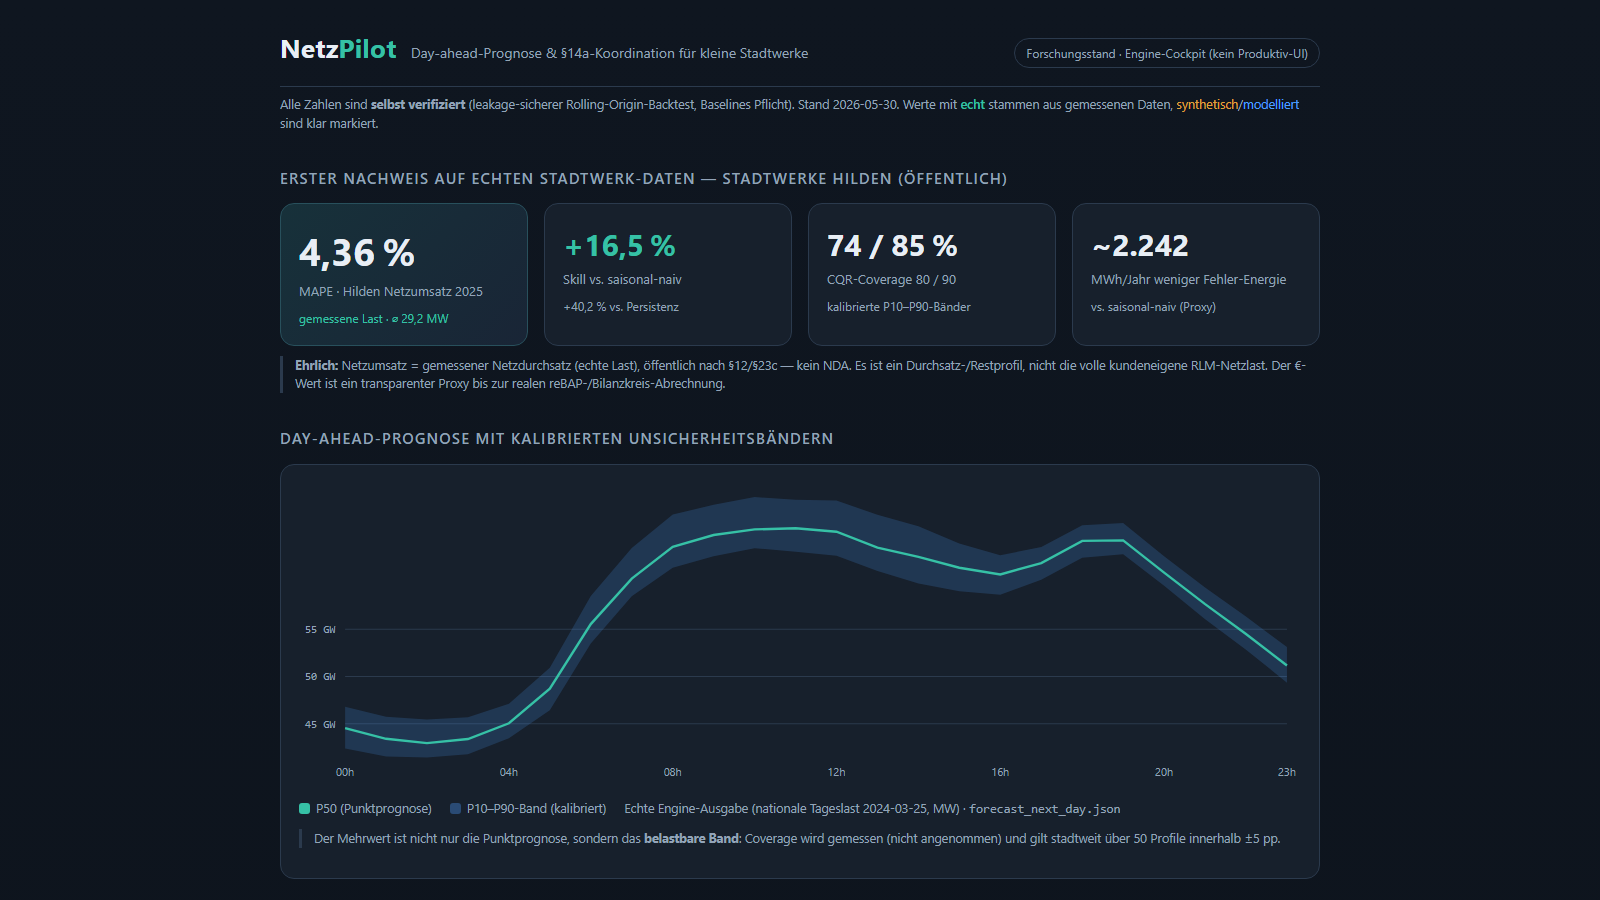
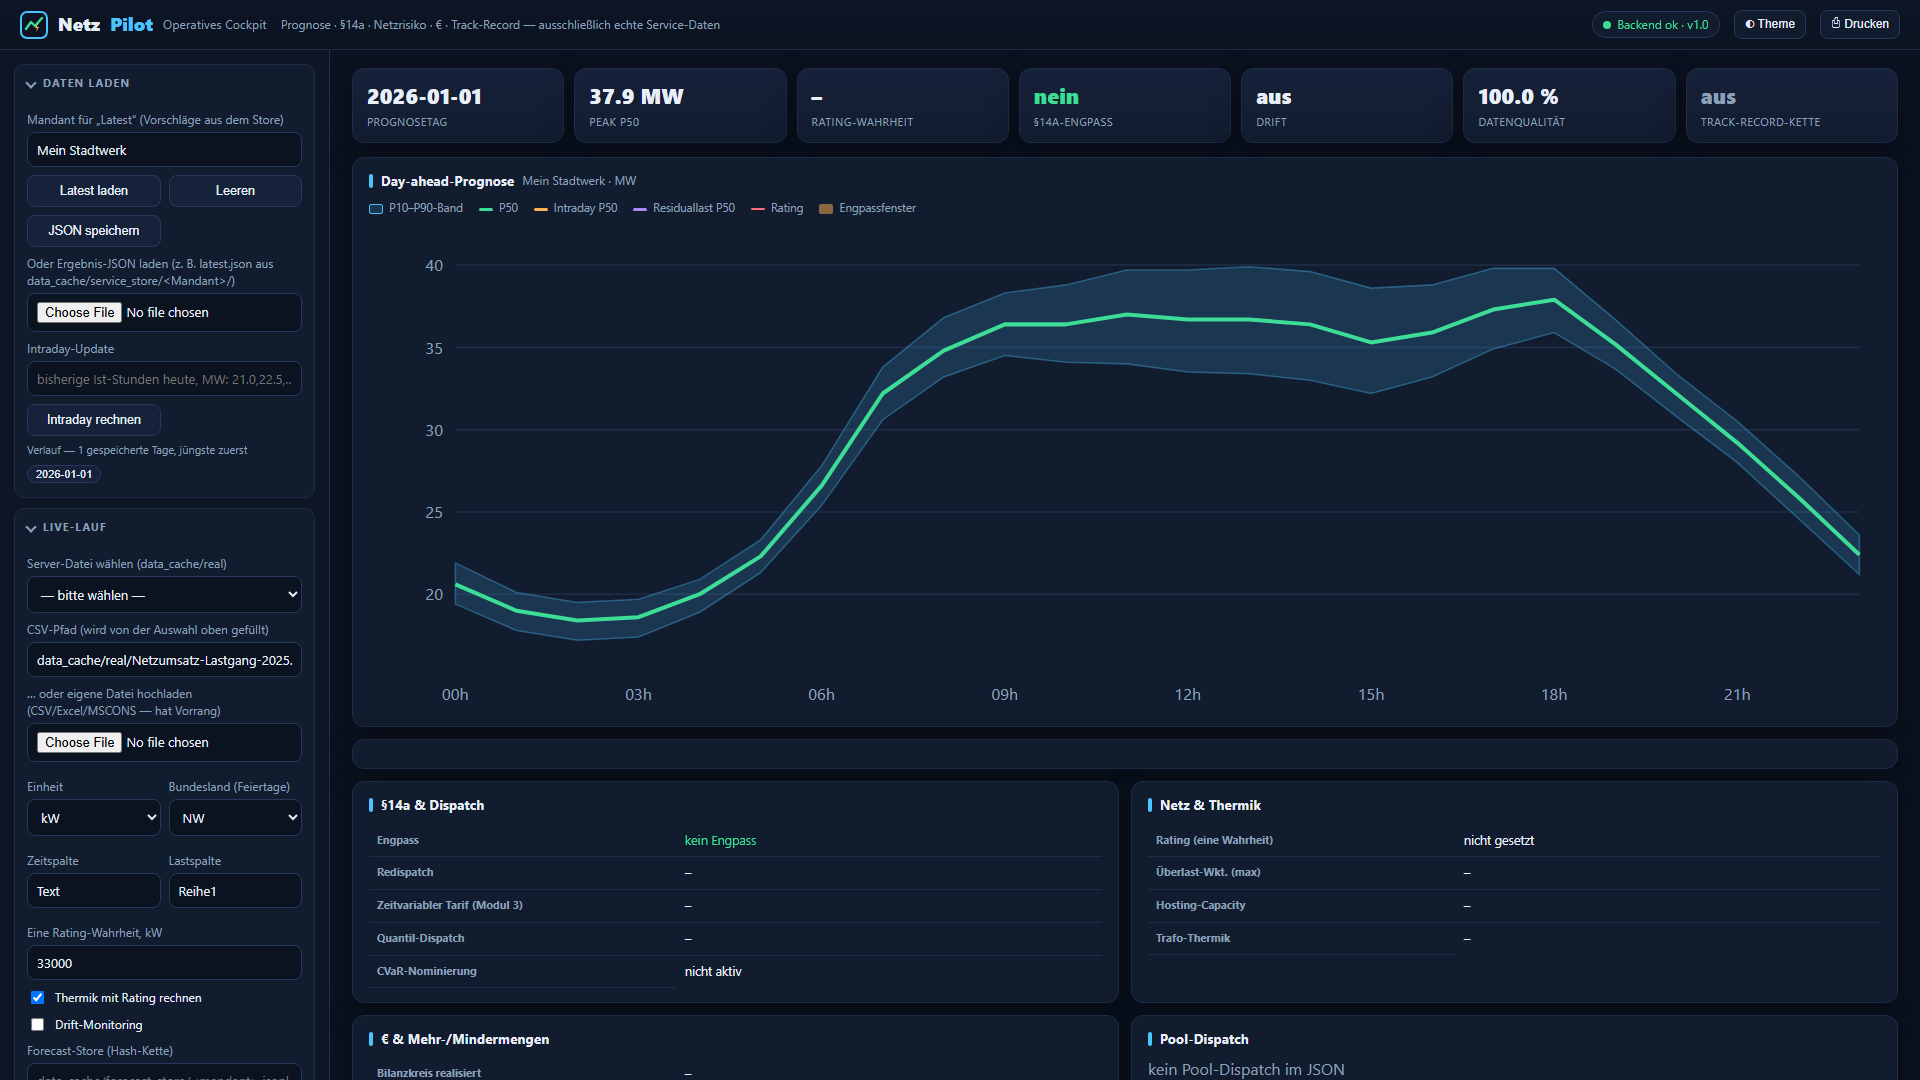
replace showcase with live cockpit screenshot

diff --git a/README.md b/README.md
@@ -18,7 +18,7 @@ NetzPilot erstellt **Day-ahead- und Mehrtages-Prognosen** (D+1…D+3) für die N
   <img src="docs/assets/netzpilot-dashboard.png" alt="NetzPilot-Dashboard mit verifizierten Stadtwerke-Kennzahlen und Day-ahead-Prognose" width="100%">
 </p>
 
-<p align="center"><sub>Engine-Showcase mit verifizierten öffentlichen Stadtwerke-Daten; das operative Cockpit läuft unter <code>/cockpit</code>.</sub></p>
+<p align="center"><sub>Operatives Cockpit der lokal laufenden FastAPI-Instanz mit geladenem Service-Lauf; erreichbar unter <code>/cockpit</code>.</sub></p>
 
 ## Kernfunktionen
 